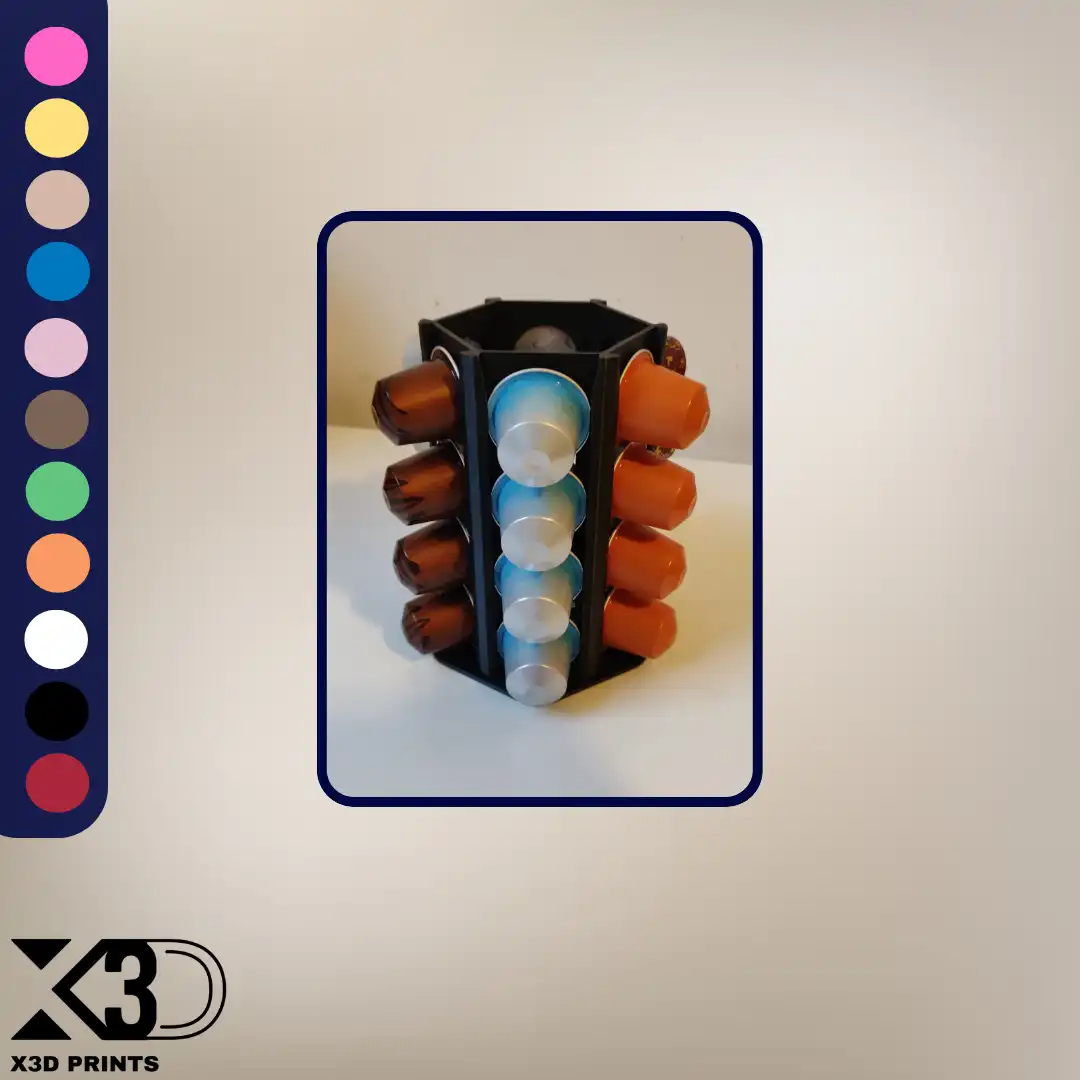
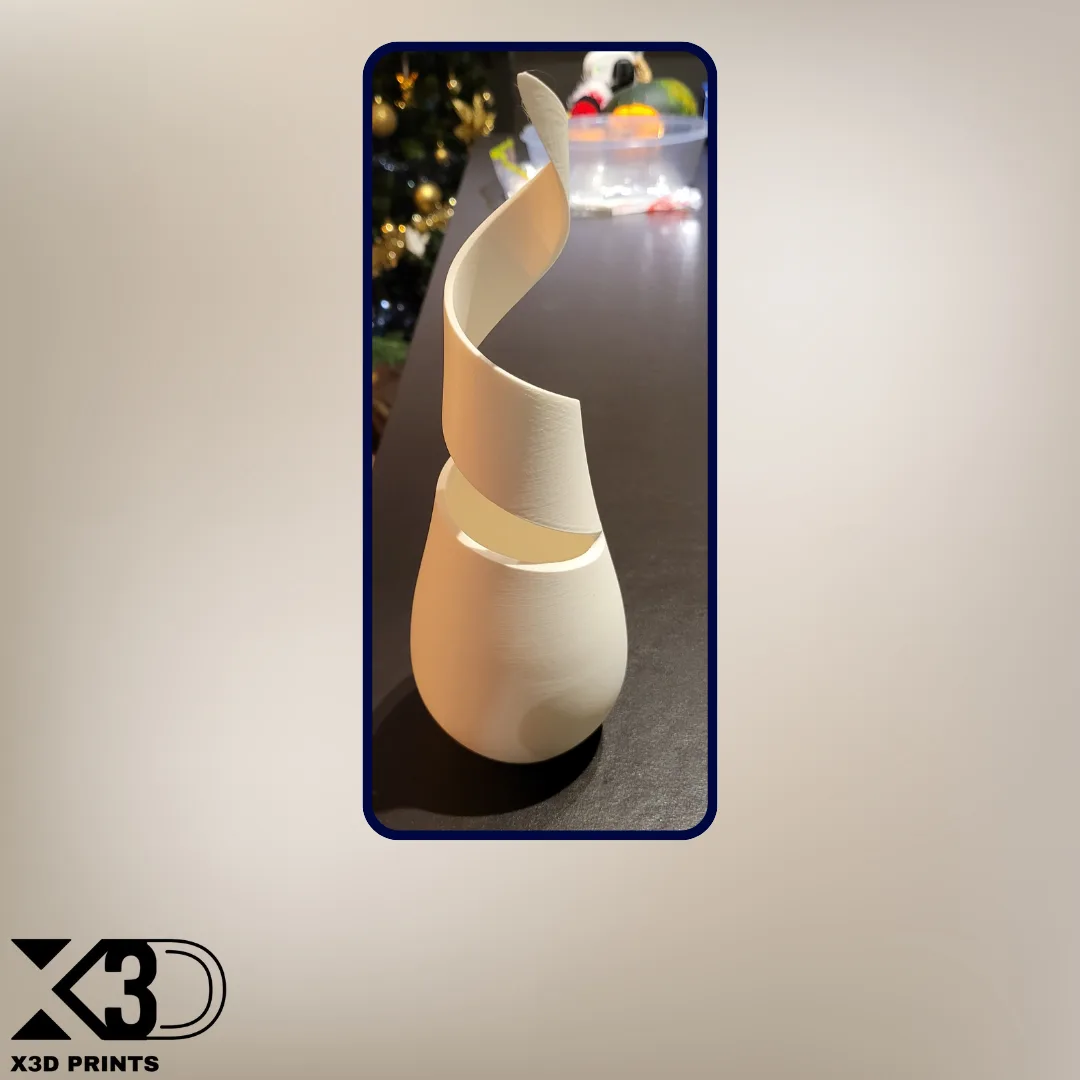
in between

diff --git a/app/(home)/page.tsx b/app/(home)/page.tsx
@@ -15,8 +15,11 @@ import HeroTrustBar, { type HeroTrustItem } from "@/components/HeroTrustBar"
 import LeadTimeStatus from "@/components/LeadTimeStatus"
 import QuickContactActions from "@/components/QuickContactActions"
 import MaterialSwatches, { type Swatch } from "@/components/MaterialSwatches"
+import AutoCarousel from "@/components/AutoCarousel"
 import { localizeHref } from "@/lib/i18n/paths"
 import { buildFaqPageSchema } from "@/lib/seo"
+import { readdirSync, statSync } from "node:fs"
+import path from "node:path"
 
 
 const NL_METADATA: Metadata = {
@@ -79,6 +82,57 @@ const EN_METADATA: Metadata = {
 void EN_METADATA
 
 export const metadata: Metadata = NL_METADATA
+
+const portfolioDir = path.join(process.cwd(), "public/images/portfolio")
+const organizerSpotlightPhoto = {
+  src: "/images/organizers/modugrid/ModuGrid10.webp",
+  alt: "Tool organizer op maat",
+}
+
+const toPortfolioTitle = (value: string) =>
+  value
+    .split(" ")
+    .filter(Boolean)
+    .map((word) => word.charAt(0).toUpperCase() + word.slice(1).toLowerCase())
+    .join(" ")
+
+const latestPortfolioPhotos = (() => {
+  try {
+    const portfolioEntries = readdirSync(portfolioDir)
+      .filter((file) => /\.webp$/i.test(file))
+      .map((file) => ({ file, mtime: statSync(path.join(portfolioDir, file)).mtimeMs }))
+      .sort((a, b) => b.mtime - a.mtime)
+
+    const sanitizedPortfolioEntries = portfolioEntries.filter(({ file }) => {
+      const normalizedFileName = file.toLowerCase()
+      if (normalizedFileName.includes("hoornaarval")) return false
+      if (normalizedFileName === "back2school (1).webp") return false
+      return true
+    })
+
+    const portfolioPhotos = sanitizedPortfolioEntries
+      .slice(0, 9)
+      .map(({ file }, index) => {
+        const baseLabel = file
+          .replace(/\.[^.]+$/, "")
+          .replace(/[-_]+/g, " ")
+          .replace(/\s+/g, " ")
+          .trim()
+        const cleaned = baseLabel
+          .replace(/^(afbeelding|image|img|foto)\s*/i, "")
+          .replace(/^\d+$/, "")
+          .trim()
+        return {
+          src: `/images/portfolio/${encodeURIComponent(file)}`,
+          alt: cleaned ? toPortfolioTitle(cleaned) : `Portfolio ontwerp ${index + 1}`,
+        }
+      })
+
+    return [organizerSpotlightPhoto, ...portfolioPhotos].slice(0, 10)
+  } catch {
+    return []
+  }
+})()
 
 function getSeasonCta(date: Date, isEn: boolean) {
   const MS_IN_DAY = 86_400_000
@@ -150,6 +204,12 @@ const HOME_COPY_NL = {
     { label: "Doorlooptijd", value: "Enkele werkdagen (in overleg)" },
     { label: "Bouwvolume", value: "Tot 35 x 32 x 35 cm" },
   ],
+  portfolioCarousel: {
+    kicker: "Recente 3D print projecten",
+    title: "10 voorbeeldontwerpen uit ons 3D print atelier",
+    body: "Een representatieve mix van maatwerk, seizoensprints en functionele onderdelen. Zie wat mogelijk is voor jouw idee en vraag snel een offerte op maat aan.",
+    cta: "Bekijk alle 3D print projecten",
+  },
   local: {
     kicker: "Lokaal & 100% Belgisch",
     title: "Herzeelse handelaar, verankerd in Vlaanderen.",
@@ -441,6 +501,12 @@ const HOME_COPY_EN = {
     { label: "Lead time", value: "A few business days (by agreement)" },
     { label: "Build volume", value: "Up to 35 x 32 x 35 cm" },
   ],
+  portfolioCarousel: {
+    kicker: "Recent 3D printing projects",
+    title: "10 showcase designs from our 3D printing studio",
+    body: "A representative mix of custom work, seasonal prints and functional parts. See what is possible for your idea and request a tailored quote fast.",
+    cta: "View all 3D printing projects",
+  },
   local: {
     kicker: "Local & 100% Belgian",
     title: "Herzele-based, rooted in Flanders.",
@@ -866,6 +932,36 @@ export default function HomePage(props: unknown) {
           </Reveal>
         </div>
       </section>
+
+      {latestPortfolioPhotos.length > 0 ? (
+        <section className="px-6 pb-14 sm:px-8 lg:px-12">
+          <div className="mx-auto max-w-6xl">
+            <Reveal className="flex flex-col gap-4 sm:flex-row sm:items-end sm:justify-between">
+              <div className="max-w-3xl">
+                <p className="text-xs font-semibold uppercase tracking-[0.28em] text-indigo-600">{copy.portfolioCarousel.kicker}</p>
+                <h2 className="mt-2 text-balance text-2xl font-bold tracking-tight text-slate-900 sm:text-3xl">
+                  {copy.portfolioCarousel.title}
+                </h2>
+                <p className="mt-2 text-sm text-slate-600 sm:text-base">{copy.portfolioCarousel.body}</p>
+              </div>
+              <Link
+                href={localize("/portfolio")}
+                className="inline-flex items-center justify-center rounded-xl border border-indigo-100/70 bg-white/80 px-5 py-3 text-sm font-semibold text-slate-900 shadow-sm transition hover:-translate-y-0.5 hover:bg-white"
+              >
+                {copy.portfolioCarousel.cta}
+              </Link>
+            </Reveal>
+            <Reveal delay={0.08} className="mt-8">
+              <AutoCarousel
+                items={latestPortfolioPhotos}
+                speed={10}
+                visibleCount={4}
+                itemClass="aspect-[4/3] sm:aspect-[3/2] lg:aspect-[4/3]"
+              />
+            </Reveal>
+          </div>
+        </section>
+      ) : null}
 
       {/* LOKAAL */}
       <section className="px-6 pb-12 sm:px-8 lg:px-12">

diff --git a/.next-dev/server/middleware-build-manifest.js b/.next-dev/server/middleware-build-manifest.js
@@ -2,9 +2,7 @@ globalThis.__BUILD_MANIFEST = {
   "polyfillFiles": [
     "static/chunks/polyfills.js"
   ],
-  "devFiles": [
-    "static/chunks/react-refresh.js"
-  ],
+  "devFiles": [],
   "ampDevFiles": [],
   "lowPriorityFiles": [],
   "rootMainFiles": [
@@ -13,16 +11,7 @@ globalThis.__BUILD_MANIFEST = {
   ],
   "rootMainFilesTree": {},
   "pages": {
-    "/_app": [
-      "static/chunks/webpack.js",
-      "static/chunks/main.js",
-      "static/chunks/pages/_app.js"
-    ],
-    "/_error": [
-      "static/chunks/webpack.js",
-      "static/chunks/main.js",
-      "static/chunks/pages/_error.js"
-    ]
+    "/_app": []
   },
   "ampFirstPages": []
 };

diff --git a/app/(pages)/organizers/tstak/page.tsx b/app/(pages)/organizers/tstak/page.tsx
@@ -31,7 +31,7 @@ export const metadata: Metadata = {
     url: PAGE_URL,
     images: PAGE.seo.ogImage
       ? [{ url: PAGE.seo.ogImage, width: 1200, height: 630, alt: "TSTAK organizer op maat" }]
-      : [{ url: "/images/organizers/tstak/tstak1.jpg", width: 1200, height: 900, alt: "TSTAK organizer op maat" }],
+      : [{ url: "/images/organizers/tstak/tstak1.webp", width: 1200, height: 900, alt: "TSTAK organizer op maat" }],
     siteName: SITE.name,
     locale: SITE.locale,
   },
@@ -93,7 +93,7 @@ export default function TstakPage() {
             <ContentTableOfContents title="Inhoud" items={tocItems} className="max-w-xl" />
             <div className="overflow-hidden rounded-2xl border border-white/60 shadow-lg ring-1 ring-white/60 dark:border-slate-800 dark:ring-0">
               <Image
-                src="/images/organizers/tstak/tstak0.jpg"
+                src="/images/organizers/tstak/tstak0.webp"
                 alt="TSTAK organizer overzicht in de koffer"
                 width={1600}
                 height={900}
@@ -251,9 +251,9 @@ export default function TstakPage() {
               speed={4}
               itemClass="aspect-[4/3] sm:aspect-[3/2] lg:aspect-[4/3]"
               items={[
-                { src: "/images/organizers/tstak/tstak1.jpg", alt: "TSTAK organizer met verdeelde vakken", width: 1600, height: 900 },
-                { src: "/images/organizers/tstak/tstak2.jpg", alt: "TSTAK insert voor small parts en bits", width: 1600, height: 900 },
-                { src: "/images/organizers/tstak/tstak3.jpeg", alt: "TSTAK low-profile layout met labelzones", width: 1600, height: 900 },
+                { src: "/images/organizers/tstak/tstak1.webp", alt: "TSTAK organizer met verdeelde vakken", width: 1600, height: 900 },
+                { src: "/images/organizers/tstak/tstak2.webp", alt: "TSTAK insert voor small parts en bits", width: 1600, height: 900 },
+                { src: "/images/organizers/tstak/tstak3.webp", alt: "TSTAK low-profile layout met labelzones", width: 1600, height: 900 },
                 { src: "/images/organizers/tstak/tstak4.webp", alt: "TSTAK insert met antislip optie", width: 1600, height: 900 },
                 { src: "/images/organizers/tstak/tstak5.webp", alt: "TSTAK organizer detail met kleurcode", width: 1600, height: 900 },
                 { src: "/images/organizers/tstak/tstak6.webp", alt: "TSTAK layout voor handtools en verbruiksmateriaal", width: 1600, height: 900 },

diff --git a/app/en/(pages)/organizers/tstak/page.tsx b/app/en/(pages)/organizers/tstak/page.tsx
@@ -19,7 +19,7 @@ const PAGE_EN: OrganizerPageContent = {
     description:
       "Stanley/DeWALT TSTAK inserts for small parts and all-round kits: no rattle, clear label zones and optional anti-slip. Custom TSTAK insert in Belgium for field teams and vans.",
     canonical: `${SITE.url}/en/organizers/tstak/`,
-    ogImage: "/images/organizers/tstak/tstak0.jpg",
+    ogImage: "/images/organizers/tstak/tstak0.webp",
   },
   heroTitle: "TSTAK inserts with fixed layouts",
   heroSubtitle: "Preset sets for small parts and all-round cases, custom possible.",
@@ -160,7 +160,7 @@ export default function TstakPageEn() {
             <ContentTableOfContents title="Contents" items={tocItems} className="max-w-xl" />
             <div className="overflow-hidden rounded-2xl border border-white/60 shadow-lg ring-1 ring-white/60 dark:border-slate-800 dark:ring-0">
               <Image
-                src="/images/organizers/tstak/tstak0.jpg"
+                src="/images/organizers/tstak/tstak0.webp"
                 alt="TSTAK organizer overview in the case"
                 width={1600}
                 height={900}
@@ -308,9 +308,9 @@ export default function TstakPageEn() {
               speed={4}
               itemClass="aspect-[4/3] sm:aspect-[3/2] lg:aspect-[4/3]"
               items={[
-                { src: "/images/organizers/tstak/tstak1.jpg", alt: "TSTAK organizer with divided bins", width: 1600, height: 900 },
-                { src: "/images/organizers/tstak/tstak2.jpg", alt: "TSTAK insert for small parts and bits", width: 1600, height: 900 },
-                { src: "/images/organizers/tstak/tstak3.jpeg", alt: "TSTAK low-profile layout with label zones", width: 1600, height: 900 },
+                { src: "/images/organizers/tstak/tstak1.webp", alt: "TSTAK organizer with divided bins", width: 1600, height: 900 },
+                { src: "/images/organizers/tstak/tstak2.webp", alt: "TSTAK insert for small parts and bits", width: 1600, height: 900 },
+                { src: "/images/organizers/tstak/tstak3.webp", alt: "TSTAK low-profile layout with label zones", width: 1600, height: 900 },
                 { src: "/images/organizers/tstak/tstak4.webp", alt: "TSTAK insert with anti-slip option", width: 1600, height: 900 },
                 { src: "/images/organizers/tstak/tstak5.webp", alt: "TSTAK organizer detail with color coding", width: 1600, height: 900 },
                 { src: "/images/organizers/tstak/tstak6.webp", alt: "TSTAK layout for hand tools and consumables", width: 1600, height: 900 },

diff --git a/app/(pages)/organizers/modugrid/page.tsx b/app/(pages)/organizers/modugrid/page.tsx
@@ -30,7 +30,7 @@ export const metadata: Metadata = {
     url: PAGE_URL,
     images: PAGE.seo.ogImage
       ? [{ url: PAGE.seo.ogImage, width: 1200, height: 630, alt: "Gridfinity organizer op maat" }]
-      : [{ url: "/images/organizers/modugrid/ModuGrid2.jpg", width: 1200, height: 900, alt: "Gridfinity organizer op maat" }],
+      : [{ url: "/images/organizers/modugrid/ModuGrid2.webp", width: 1200, height: 900, alt: "Gridfinity organizer op maat" }],
     siteName: SITE.name,
     locale: SITE.locale,
   },
@@ -41,8 +41,8 @@ export default function ModuGridPage() {
   const contactHref = buildOrganizerContactHref(PAGE.slug)
   const schemas = buildOrganizerSchemas(PAGE, PAGE_URL)
   const carouselItems = [
-    { src: "/images/organizers/modugrid/ModuGrid1.jpg", alt: "Gridfinity lade overzicht (gridfinity alternatief)", width: 1200, height: 900 },
-    { src: "/images/organizers/modugrid/ModuGrid2.jpg", alt: "Gridfinity lade met schroeven en bits (tool organizer op maat)", width: 1200, height: 900 },
+    { src: "/images/organizers/modugrid/ModuGrid1.webp", alt: "Gridfinity lade overzicht (gridfinity alternatief)", width: 1200, height: 900 },
+    { src: "/images/organizers/modugrid/ModuGrid2.webp", alt: "Gridfinity lade met schroeven en bits (tool organizer op maat)", width: 1200, height: 900 },
     { src: "/images/organizers/modugrid/ModuGrid3.webp", alt: "Gridfinity lade met bits en schroeven, labelbaar", width: 1200, height: 900 },
     { src: "/images/organizers/modugrid/ModuGrid4.webp", alt: "Gridfinity bakjes voor bureau tools en EDC", width: 1200, height: 900 },
     { src: "/images/organizers/modugrid/ModuGrid5.webp", alt: "Gridfinity detail met labels en antislip", width: 1200, height: 900 },

diff --git a/app/(pages)/organizers/packout/page.tsx b/app/(pages)/organizers/packout/page.tsx
@@ -20,9 +20,9 @@ const CAROUSEL_ITEMS = [
   { src: "/images/organizers/milwaukee/milwaukee5.webp", alt: "Packout low-profile organizer met labelzones", width: 1600, height: 900 },
   { src: "/images/organizers/milwaukee/milwaukee6.webp", alt: "Packout compact organizer met antislip optie", width: 1600, height: 900 },
   { src: "/images/organizers/milwaukee/milwaukee7.webp", alt: "Packout layout voor servicewagen, geen losse onderdelen", width: 1600, height: 900 },
-  { src: "/images/organizers/milwaukee/milwaukee8.jpg", alt: "Packout inlay met kleurcode en labelbare rijen", width: 1600, height: 900 },
-  { src: "/images/organizers/milwaukee/milwaukee9.jfif", alt: "Packout organizer met mix van accu’s en handtools", width: 1600, height: 900 },
-  { src: "/images/organizers/milwaukee/milwaukee10.jpeg", alt: "Packout low-profile compact voor kleinverbruik", width: 1600, height: 900 },
+  { src: "/images/organizers/milwaukee/milwaukee8.webp", alt: "Packout inlay met kleurcode en labelbare rijen", width: 1600, height: 900 },
+  { src: "/images/organizers/milwaukee/milwaukee9.webp", alt: "Packout organizer met mix van accu’s en handtools", width: 1600, height: 900 },
+  { src: "/images/organizers/milwaukee/milwaukee10.webp", alt: "Packout low-profile compact voor kleinverbruik", width: 1600, height: 900 },
 ]
 
 export const metadata: Metadata = {

diff --git a/app/en/(pages)/organizers/packout/page.tsx b/app/en/(pages)/organizers/packout/page.tsx
@@ -90,9 +90,9 @@ const CAROUSEL_ITEMS = [
   { src: "/images/organizers/milwaukee/milwaukee5.webp", alt: "Packout low-profile organizer with label zones", width: 1600, height: 900 },
   { src: "/images/organizers/milwaukee/milwaukee6.webp", alt: "Packout compact organizer with anti-slip option", width: 1600, height: 900 },
   { src: "/images/organizers/milwaukee/milwaukee7.webp", alt: "Packout layout for service van, no loose parts", width: 1600, height: 900 },
-  { src: "/images/organizers/milwaukee/milwaukee8.jpg", alt: "Packout inlay with color coding and label rows", width: 1600, height: 900 },
-  { src: "/images/organizers/milwaukee/milwaukee9.jfif", alt: "Packout organizer mixing batteries and hand tools", width: 1600, height: 900 },
-  { src: "/images/organizers/milwaukee/milwaukee10.jpeg", alt: "Packout low-profile compact for small consumables", width: 1600, height: 900 },
+  { src: "/images/organizers/milwaukee/milwaukee8.webp", alt: "Packout inlay with color coding and label rows", width: 1600, height: 900 },
+  { src: "/images/organizers/milwaukee/milwaukee9.webp", alt: "Packout organizer mixing batteries and hand tools", width: 1600, height: 900 },
+  { src: "/images/organizers/milwaukee/milwaukee10.webp", alt: "Packout low-profile compact for small consumables", width: 1600, height: 900 },
 ]
 
 const PAGE_URL = PAGE_EN.seo.canonical

diff --git a/app/(pages)/blog/3d-printen-winter-kerst-nieuwjaar/page.tsx b/app/(pages)/blog/3d-printen-winter-kerst-nieuwjaar/page.tsx
@@ -129,8 +129,8 @@ const inspirationImages = [
   { src: "/images/portfolio/XmasBalls2.webp", alt: "3D geprinte kerstdecor set 2" },
   { src: "/images/portfolio/XmasDoorTrim.webp", alt: "3D geprinte kerstdecor set 3" },
   { src: "/images/portfolio/XmasScene.webp", alt: "3D geprinte kerstdecor set 4" },
-  { src: "/images/portfolio/xmasTree.jpg", alt: "3D geprinte kerstdecor set 5" },
-  { src: "/images/portfolio/IMG-20241106-WA0000.jpg", alt: "3D geprinte kerstdecor set 6" },
+  { src: "/images/portfolio/xmasTree.webp", alt: "3D geprinte kerstdecor set 5" },
+  { src: "/images/portfolio/IMG-20241106-WA0000.webp", alt: "3D geprinte kerstdecor set 6" },
 ]
 
 const articleJsonLd = buildArticleJsonLd({

diff --git a/app/(pages)/blog/gridfinity-modulair-opslagsysteem/page.tsx b/app/(pages)/blog/gridfinity-modulair-opslagsysteem/page.tsx
@@ -20,8 +20,8 @@ const references = [
 ]
 
 const GRID_IMAGES = [
-  { src: "/images/organizers/modugrid/ModuGrid1.jpg", alt: "Gridfinity lade overzicht (bovenaan)", width: 1600, height: 900 },
-  { src: "/images/organizers/modugrid/ModuGrid2.jpg", alt: "Gridfinity lade met schroeven en bits", width: 1600, height: 900 },
+  { src: "/images/organizers/modugrid/ModuGrid1.webp", alt: "Gridfinity lade overzicht (bovenaan)", width: 1600, height: 900 },
+  { src: "/images/organizers/modugrid/ModuGrid2.webp", alt: "Gridfinity lade met schroeven en bits", width: 1600, height: 900 },
   { src: "/images/og-blog-nl.svg", alt: "Gridfinity bakjes met labels en antislip", width: 1600, height: 900 },
   { src: "/images/organizers/modugrid/ModuGrid4.webp", alt: "Gridfinity bakjes voor bureau tools", width: 1600, height: 900 },
   { src: "/images/organizers/modugrid/ModuGrid5.webp", alt: "Gridfinity detail met labelrand", width: 1600, height: 900 },

diff --git a/app/en/(pages)/blog/3d-printen-winter-kerst-nieuwjaar/page.tsx b/app/en/(pages)/blog/3d-printen-winter-kerst-nieuwjaar/page.tsx
@@ -136,8 +136,8 @@ const inspirationImages = [
   { src: "/images/portfolio/XmasBalls2.webp", alt: "3D printed Christmas decor set 2" },
   { src: "/images/portfolio/XmasDoorTrim.webp", alt: "3D printed Christmas decor set 3" },
   { src: "/images/portfolio/XmasScene.webp", alt: "3D printed Christmas decor set 4" },
-  { src: "/images/portfolio/xmasTree.jpg", alt: "3D printed Christmas decor set 5" },
-  { src: "/images/portfolio/IMG-20241106-WA0000.jpg", alt: "3D printed Christmas decor set 6" },
+  { src: "/images/portfolio/xmasTree.webp", alt: "3D printed Christmas decor set 5" },
+  { src: "/images/portfolio/IMG-20241106-WA0000.webp", alt: "3D printed Christmas decor set 6" },
 ]
 
 const articleJsonLd = buildArticleJsonLd({

diff --git a/app/en/(pages)/blog/gridfinity-modular-storage-system/page.tsx b/app/en/(pages)/blog/gridfinity-modular-storage-system/page.tsx
@@ -32,8 +32,8 @@ const references = [
 ]
 
 const GRID_IMAGES = [
-  { src: "/images/organizers/modugrid/ModuGrid1.jpg", alt: "Gridfinity drawer overview (top view)", width: 1600, height: 900 },
-  { src: "/images/organizers/modugrid/ModuGrid2.jpg", alt: "Gridfinity drawer with screws and bits", width: 1600, height: 900 },
+  { src: "/images/organizers/modugrid/ModuGrid1.webp", alt: "Gridfinity drawer overview (top view)", width: 1600, height: 900 },
+  { src: "/images/organizers/modugrid/ModuGrid2.webp", alt: "Gridfinity drawer with screws and bits", width: 1600, height: 900 },
   { src: "/images/og-blog-en.svg", alt: "Gridfinity bins with labels and anti-slip", width: 1600, height: 900 },
   { src: "/images/organizers/modugrid/ModuGrid4.webp", alt: "Gridfinity bins for desk tools", width: 1600, height: 900 },
   { src: "/images/organizers/modugrid/ModuGrid5.webp", alt: "Gridfinity detail with label edge", width: 1600, height: 900 },

diff --git a/app/en/(pages)/organizers/modugrid/page.tsx b/app/en/(pages)/organizers/modugrid/page.tsx
@@ -13,8 +13,8 @@ import { SITE, buildFaqPageSchema, buildHowToSchema } from "@/lib/seo"
 const PAGE = ORGANIZER_PAGES.modugrid
 const PAGE_URL = `${SITE.url}/en/organizers/${PAGE.slug}/`
 const CAROUSEL_ITEMS = [
-  { src: "/images/organizers/modugrid/ModuGrid1.jpg", alt: "Gridfinity drawer overview (gridfinity alternative)", width: 1200, height: 900 },
-  { src: "/images/organizers/modugrid/ModuGrid2.jpg", alt: "Gridfinity drawer with screws and bits, made-to-fit", width: 1200, height: 900 },
+  { src: "/images/organizers/modugrid/ModuGrid1.webp", alt: "Gridfinity drawer overview (gridfinity alternative)", width: 1200, height: 900 },
+  { src: "/images/organizers/modugrid/ModuGrid2.webp", alt: "Gridfinity drawer with screws and bits, made-to-fit", width: 1200, height: 900 },
   { src: "/images/organizers/modugrid/ModuGrid3.webp", alt: "Gridfinity tray with bits and screws, label-ready", width: 1200, height: 900 },
   { src: "/images/organizers/modugrid/ModuGrid4.webp", alt: "Gridfinity bins for desk tools and EDC", width: 1200, height: 900 },
   { src: "/images/organizers/modugrid/ModuGrid5.webp", alt: "Gridfinity detail with labels and anti-slip", width: 1200, height: 900 },